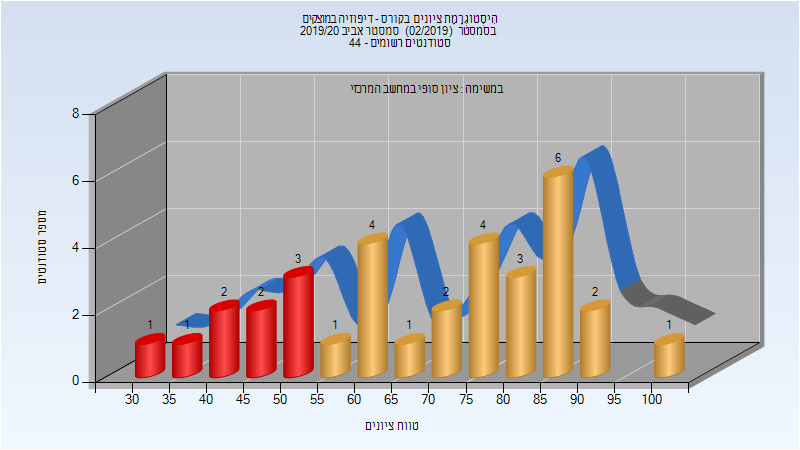
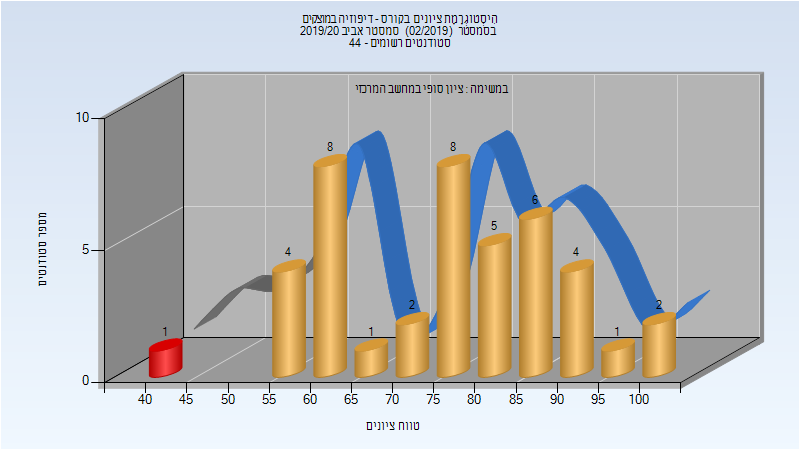
Deploy michael-maltsev/technion-histograms to github.com/michael-maltsev/technion-histograms.git:gh-pages

diff --git a/315051/index.html b/315051/index.html
@@ -470,6 +470,32 @@
 </tr>
 </tbody>
 </table>
+<h3>סופי מועד ב'</h3>
+<p><img src="201902/Final_B.png" alt="201902 Final_B" /></p>
+<table>
+<thead>
+<tr>
+<th>סטודנטים</th>
+<th>עברו/נכשלו</th>
+<th>אחוז עוברים</th>
+<th>ציון מינימלי</th>
+<th>ציון מקסימלי</th>
+<th>ממוצע</th>
+<th>חציון</th>
+</tr>
+</thead>
+<tbody>
+<tr>
+<td>22</td>
+<td>21/1</td>
+<td>95</td>
+<td>40</td>
+<td>100</td>
+<td>70.909</td>
+<td>66</td>
+</tr>
+</tbody>
+</table>
 <h3>סופי</h3>
 <p><img src="201902/Finals.png" alt="201902 Finals" /></p>
 <table>
@@ -486,13 +512,13 @@
 </thead>
 <tbody>
 <tr>
-<td>33</td>
-<td>24/9</td>
-<td>73</td>
-<td>34</td>
+<td>42</td>
+<td>41/1</td>
+<td>98</td>
+<td>40</td>
 <td>100</td>
-<td>69.364</td>
-<td>71</td>
+<td>75.952</td>
+<td>78</td>
 </tr>
 </tbody>
 </table>

diff --git a/315051/README.md b/315051/README.md
@@ -143,11 +143,19 @@
 | ---- | ---- | ---- | ---- | ---- | ---- | ---- |
 | 33 | 24/9 | 73 | 34 | 100 | 69.364 | 71 |
 
+### סופי מועד ב'
+
+![201902 Final_B](201902/Final_B.png)
+
+| סטודנטים | עברו/נכשלו | אחוז עוברים | ציון מינימלי | ציון מקסימלי | ממוצע | חציון |
+| ---- | ---- | ---- | ---- | ---- | ---- | ---- |
+| 22 | 21/1 | 95 | 40 | 100 | 70.909 | 66 |
+
 ### סופי
 
 ![201902 Finals](201902/Finals.png)
 
 | סטודנטים | עברו/נכשלו | אחוז עוברים | ציון מינימלי | ציון מקסימלי | ממוצע | חציון |
 | ---- | ---- | ---- | ---- | ---- | ---- | ---- |
-| 33 | 24/9 | 73 | 34 | 100 | 69.364 | 71 |
+| 42 | 41/1 | 98 | 40 | 100 | 75.952 | 78 |
 
